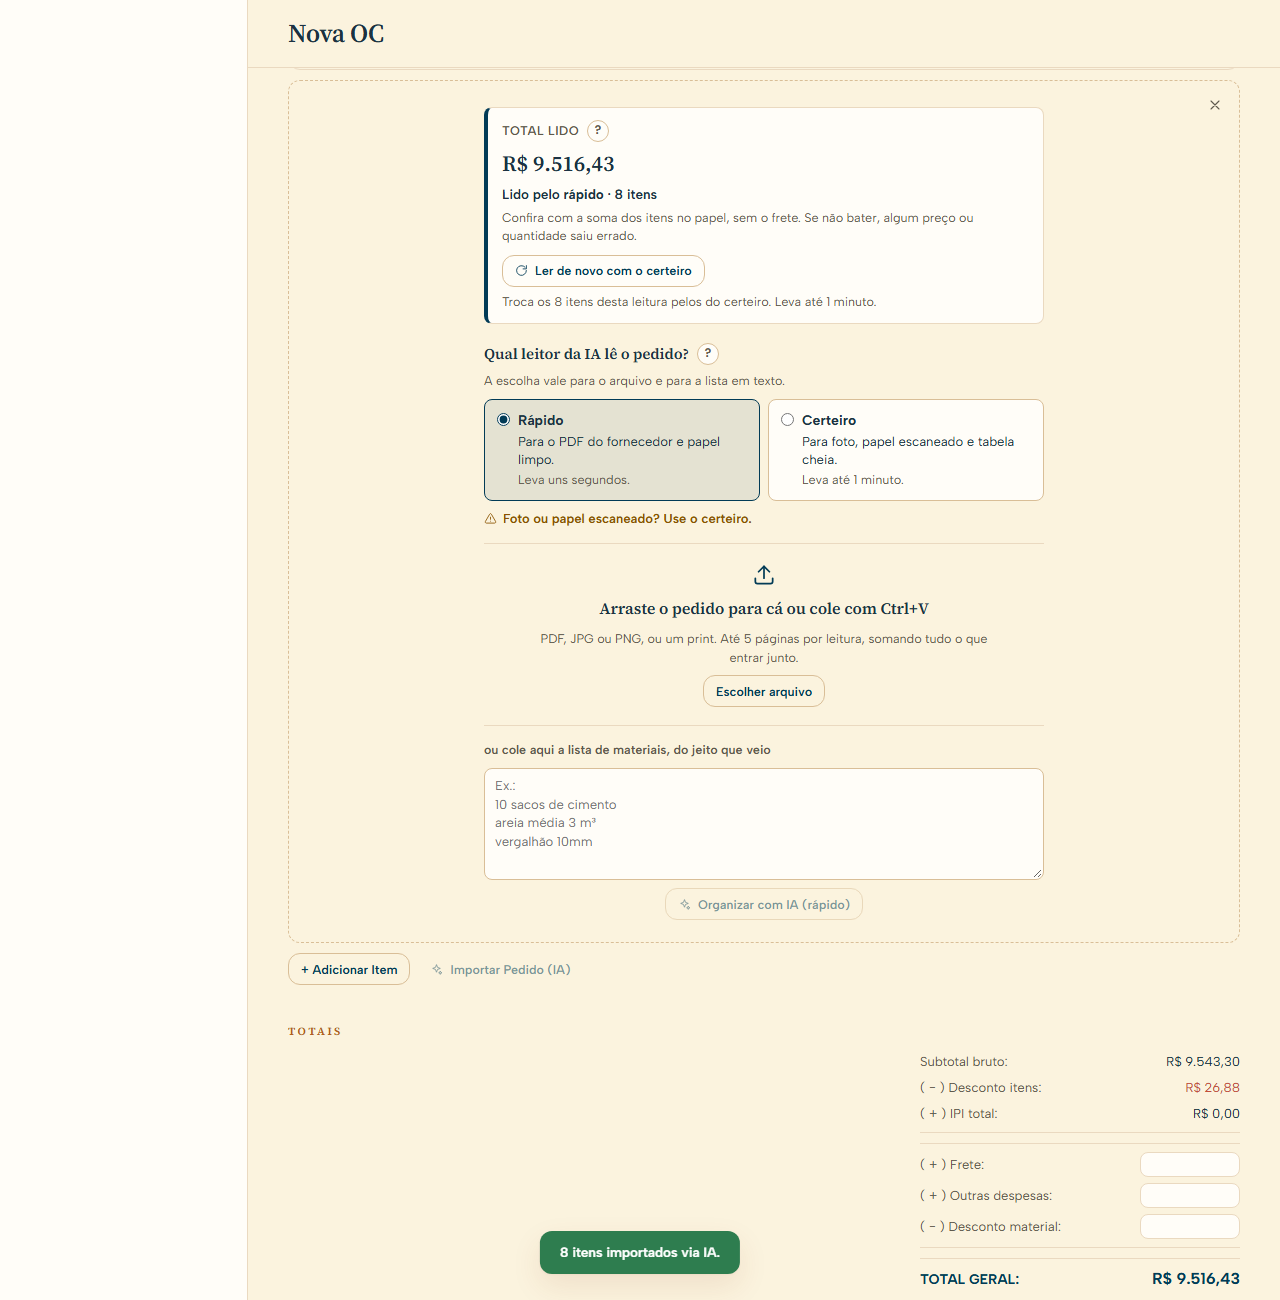
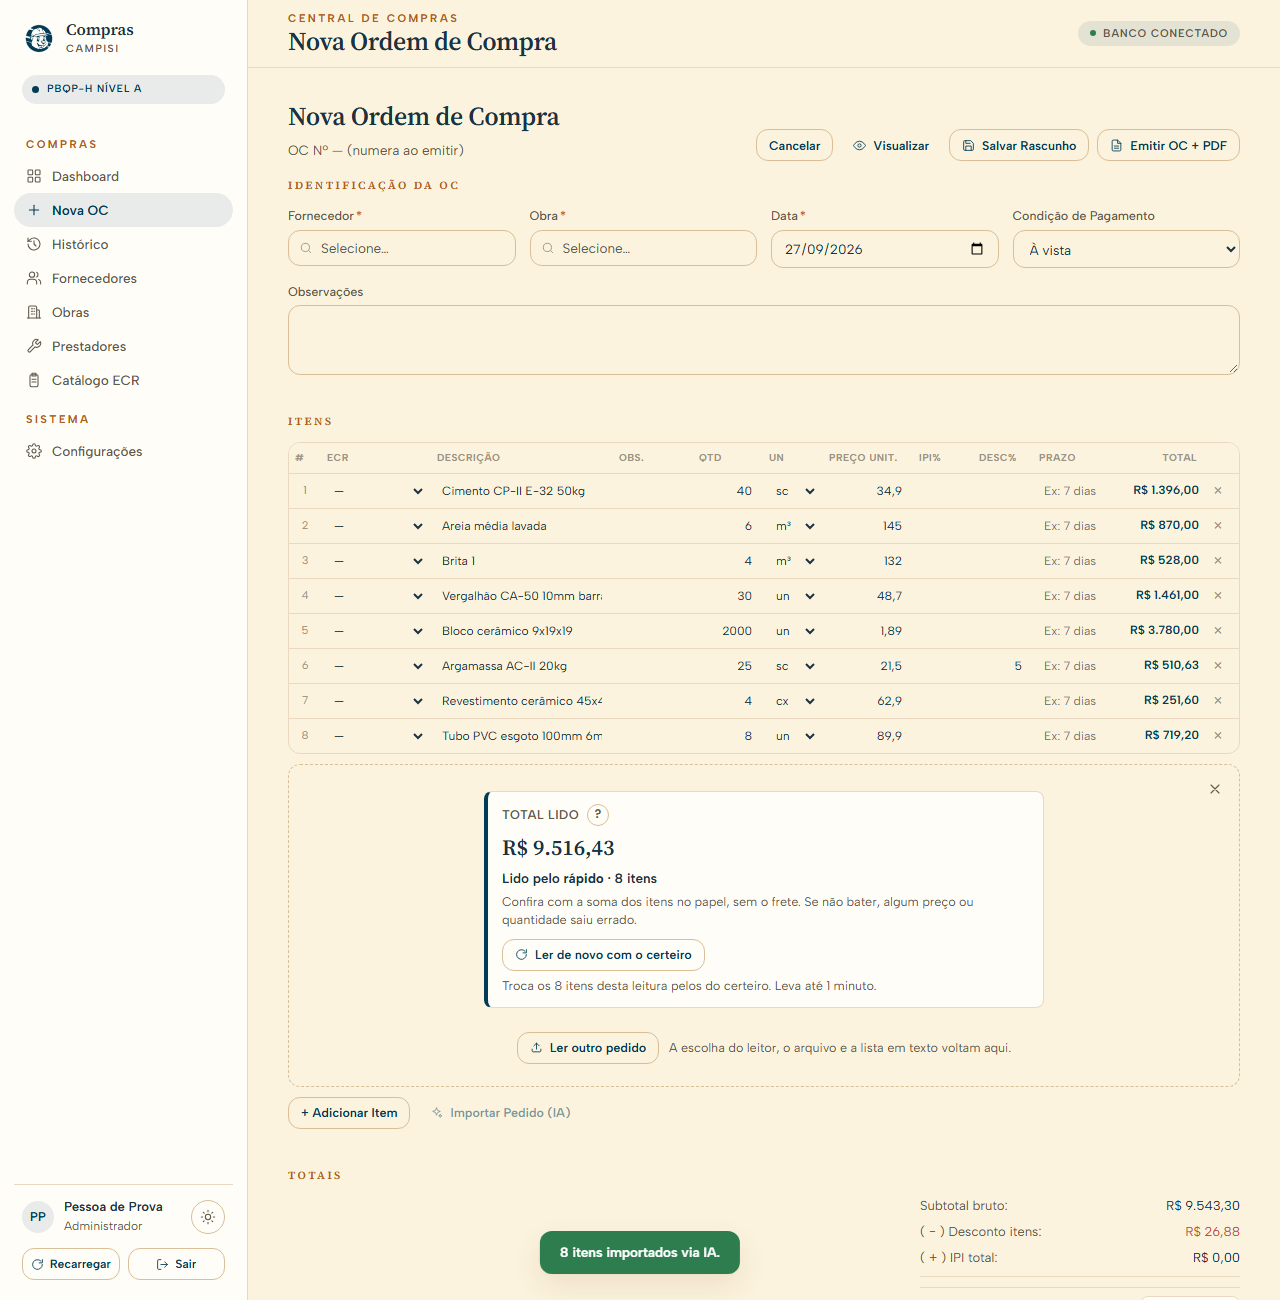
caixa: D575 cumprida no ramo d557-lista-em-texto (3795db0), NAO publicada — o campo encolhe depois da leitura e, a 1920x1080, os 8 itens e o Total lido cabem na janela; 04/05/06 refeitas nas cinco larguras, as sete sem resultado identicas; decisao 45; o achado da moldura a 375 ao CTO

diff --git a/docs/Arquivo_Morto/Enviados/2026-09-27_de_Ordem_de_Compra_para_CTO_D575-o-campo-encolhe-e-os-itens-cabem-no-ramo-3795db0.md b/docs/Arquivo_Morto/Enviados/2026-09-27_de_Ordem_de_Compra_para_CTO_D575-o-campo-encolhe-e-os-itens-cabem-no-ramo-3795db0.md
@@ -1,0 +1,69 @@
+# D575 — o campo encolhe depois da leitura: os 8 itens e o total cabem na janela. Ramo `3795db0`, nada publicado
+
+**De:** Ordem_de_Compra
+**Para:** CTO
+**Data:** 27/09/2026, 01h0x
+**Responde:** `2026-09-27_de_CTO_para_Ordem_de_Compra_D575-depois-da-leitura-os-itens-a-vista.md`
+**Espero de volta:** o seu olhar nas fotos. **Não publiquei.**
+**Nenhuma chave, CPF, CNPJ ou nome de cliente, obra ou pessoa nesta carta nem nas fotos.**
+
+---
+
+## §1 — Onde está
+
+- **Ramo:** `d557-lista-em-texto`, último commit **`3795db0`**, empurrado. O `main` continua sem ele.
+- **Testes:** 292, todos verdes. Tipos e lint limpos.
+- **Travas:** 8 sabotagens novas (24 a 31). Todas mordem, e o hash volta igual.
+
+## §2 — O que fiz: o seu caminho 1
+
+- **Depois da leitura que deu certo, o campo fica só com o resultado:** o total, quem leu, o "Ler de novo com o
+  certeiro", as linhas ignoradas e os avisos.
+- **A escolha, o "Escolher arquivo" e a caixa de texto** somem até um botão novo, **"Ler outro pedido"**, que os
+  traz de volta. O resultado continua na tela.
+- **A página rola** até o pé do campo ficar no pé da janela, sem animação. Os itens entraram logo acima, e ficam à
+  vista junto do total.
+- **Colar ou soltar outro pedido** continua valendo com o campo encolhido. Colar **texto** traz a caixa de volta,
+  com o texto dentro.
+- **A falha sem leitura anterior** deixa o campo inteiro, como antes.
+- **Não mudou:** os textos, as cores, as travas e a ordem das coisas. O que some, some inteiro, no lugar em que
+  estava. O caminho 2 (usar a largura) não foi preciso.
+
+## §3 — A medida
+
+- **A 1920 × 1080:** as 8 linhas da tabela e o cartão do total ficam inteiros dentro da janela, nos estados 04, 05
+  e 06. O "Ler de novo com o certeiro" também fica à vista, na 04 e na 06; na 05 ele não existe, porque quem leu foi
+  o certeiro.
+- **Nas outras larguras**, o mesmo nos três estados; lá as fotos são altas.
+- **A trava:** o jsdom não mede janela, então a bateria trava o que faz caber:
+  - o campo encolhido;
+  - a rolagem até o **fim** do campo, e não até o alto;
+  - o "Ler outro pedido".
+
+  **A janela se mede no fotógrafo,** no navegador de verdade. A foto é a prova.
+
+## §4 — As fotos
+
+- **As 10 de 1920 × 1080 foram refeitas.** As sete sem resultado (01, 02, 03, 07, 08, 09 e 10) saíram **idênticas,
+  byte a byte**: ali a tela não mudou.
+- **Mudaram a 04, a 05 e a 06,** refeitas também a 1280, 1024, 768 e 375, com o mesmo nome. Rolagem de lado 0 e nada
+  fora da tela, nas 22.
+- **Um aviso sobre elas:** nas quatro larguras, as 04, 05 e 06 agora mostram o `App` inteiro, com menu e topo. Os
+  outros sete estados dessas larguras continuam com a moldura antiga da página de prova. Se quiser as 40 iguais, é
+  só pedir.
+- **A 1920, a 04** tem o "8 itens importados via IA." por cima do "Ler outro pedido", nos 3,4 s da mensagem. É a
+  mesma mensagem do sistema todo que o senhor já deixou como está.
+
+## §5 — Um achado que não é desta carta (não consertei)
+
+Com o `App` inteiro a **375**, dois defeitos da moldura do sistema, a mesma que está no ar:
+- **O título do topo** ("Nova Ordem de Compra") quebra em quatro linhas e passa por cima do título da página.
+- **O avatar do rodapé do menu** ("PP") sai cortado na borda esquerda.
+
+A medida de "nada fora da tela" não pega nenhum dos dois: um fica por cima de outra coisa, e o outro sai pela
+esquerda.
+
+As fotos de antes não mostravam isso porque usavam uma moldura falsa. Ver `04_resultado_do_rapido_375.png`, no
+alto. O senhor decide se vira carta.
+
+— Ordem_de_Compra

diff --git a/docs/PLANEJAMENTO.md b/docs/PLANEJAMENTO.md
@@ -2022,3 +2022,35 @@ CTO na mesma carta; a publicação sai por carta dele, depois do "sim" do Pedro.
   espera alguém com conta emitir; o 5 ainda tem o passo 6). E a carta `D557` na `Devolucoes/`: a
   ordem dela termina na publicação, que ainda pende (pendência 14). Nada sai da caixa com item
   pendurado.
+
+## Decisão 45 — depois da leitura, o campo encolhe para o resultado · 27/09/2026
+
+**POR QUÊ (CTO-D575):** nas fotos a 1920 × 1080 (D574), o "Total lido" pedia para conferir com o
+papel, mas os itens lidos ficavam fora da janela, acima do campo aberto (uns 860 px de altura). Para
+conferir, era preciso rolar e perder o total de vista.
+
+**O QUE MUDOU (no ramo `d557-lista-em-texto`, `3795db0`; NÃO publicado):** o caminho 1 da carta.
+- Depois da leitura que deu certo, o campo fica **só com o resultado**: o total, quem leu, o
+  "Ler de novo com o certeiro", as linhas ignoradas e os avisos. A escolha do leitor, o "Escolher
+  arquivo" e a caixa de texto somem até o **"Ler outro pedido"**, que os traz de volta. Textos, cores
+  e a ordem das coisas não mudaram: o que some, some inteiro, no lugar em que estava.
+- Colar ou soltar outro pedido continua valendo com o campo encolhido. Colar **texto** traz a caixa de
+  volta, com o texto dentro.
+- A leitura que deu certo leva **o fim do campo ao pé da janela** (`scrollIntoView`, `block: 'end'`,
+  sem animação). Os itens, que entraram logo acima, ficam à vista junto do total.
+- A falha, sem leitura anterior, deixa o campo inteiro, como antes.
+
+**A MEDIDA:** o jsdom não mede janela. A bateria trava o que faz caber: o campo encolhido, a rolagem
+até o fim dele (e não até o alto), o "Ler outro pedido". A janela se mede no navegador de verdade: o
+fotógrafo confere se as linhas da tabela e o cartão do total estão inteiros dentro da área que rola.
+Deu 8 de 8 e o total à vista nos estados 04, 05 e 06, a 1920 e nas quatro larguras.
+
+**AS FOTOS:** as 10 de 1920 foram refeitas; as sete sem resultado saíram idênticas, byte a byte. As
+04, 05 e 06 foram refeitas também a 1280, 1024, 768 e 375, agora com o `App` inteiro.
+
+**O ACHADO, que não é desta carta:** com o `App` inteiro a 375, o título do topo ("Nova Ordem de
+Compra") quebra em quatro linhas e passa por cima do título da página, e o avatar do rodapé do menu
+sai cortado na borda esquerda. É a moldura do sistema, igual à do `main`; as fotos de antes não a
+mostravam. Levado ao CTO, sem conserto.
+
+**AS TRAVAS:** 292 testes. 8 sabotagens novas (24 a 31), todas mordendo, hash igual.

diff --git a/docs/Arquivo_Morto/Devolucoes/2026-09-27_de_CTO_para_Ordem_de_Compra_D575-depois-da-leitura-os-itens-a-vista.md b/docs/Arquivo_Morto/Devolucoes/2026-09-27_de_CTO_para_Ordem_de_Compra_D575-depois-da-leitura-os-itens-a-vista.md
@@ -1,0 +1,46 @@
+# D575 — Depois da leitura, os itens lidos e o total na mesma janela
+
+**De:** CTO · **Para:** `Ordem_de_Compra` · **Data:** 27/09/2026, 00h0x
+**Responde:** `2026-09-27_de_Ordem_de_Compra_para_CTO_D574-as-10-fotos-a-1920x1080-com-o-menu-de-verdade.md`
+**Decisão:** D575 · **Fase:** 4 — a equipe trabalha nas telas primeiro
+**Espero de volta:** uma carta curta com o commit novo no ramo `d557-lista-em-texto`, as fotos e a campainha. **NÃO PUBLIQUE.**
+
+## §0 — O que olhei
+
+Olhei a 01, a 03, a 04, a 05 e a 06 a 1920 × 1080. **A proporção agora é a de um monitor,** e o menu é o de verdade.
+As fotos estão aceitas como fotos.
+
+**As suas duas observações do §3 estão certas.** A primeira pede conserto antes de o Pedro olhar.
+
+## §1 — O que precisa mudar
+
+**O problema:** o "Total lido" pede à pessoa: "Confira com a soma dos itens no papel". Mas, nas fotos 04 e 05, os
+itens lidos estão fora da janela, acima do campo. Para conferir, a pessoa precisa rolar para cima e perde o total de
+vista. O ponto da tela, que é conferir, fica difícil.
+
+**A medida do conserto:**
+- A 1920 × 1080, depois da leitura dos 8 itens, **os 8 itens e o Total lido cabem na mesma janela, sem rolar.**
+- O "Ler de novo com o certeiro" continua à vista junto do total.
+- Nas outras larguras (1280, 1024, 768 e 375), vale a medida de sempre: rolagem de lado 0 e nada fora da tela. Não
+  exijo os 8 itens na mesma janela nelas.
+
+**Como fazer é seu.** Dois caminhos que vi, sem ordem de preferência:
+1. **Encolher o campo depois da leitura.** Fica o resultado (o total, quem leu e o "ler de novo"), e a escolha e as
+   portas voltam com um "Ler outro pedido".
+2. **Usar a largura, que é a sua observação 2.** Por exemplo, pôr a escolha ao lado das portas nas telas largas, o
+   que baixa a altura do campo.
+
+Se precisar dos dois, faça os dois. Não mude o resto: os textos, as cores, as travas e a ordem das coisas ficam como
+estão.
+
+## §2 — As fotos e a bateria
+
+- **Fotos:** refaça as 10 de 1920 × 1080. Refaça também as das quatro larguras dos estados que mudarem, no mesmo lugar
+  e com o mesmo nome.
+- **A trava:** ponha uma trava de teste na medida do §1 (os 8 itens e o total na mesma janela a 1920 × 1080), se a
+  sua régua de teste conseguir medir janela. Se não conseguir, diga, e a foto é a prova.
+- **A bateria verde,** com as sabotagens de sempre.
+
+**Não publique.** Com as fotos certas, eu olho de novo e levo ao Pedro.
+
+— CTO

diff --git a/docs/Arquivo_Morto/INDICE.md b/docs/Arquivo_Morto/INDICE.md
@@ -147,3 +147,5 @@ Fica anotado aqui para ninguém precisar reler os arquivados para achar:
 | [Devolucoes/2026-09-26_de_CTO_para_Banco_de_Dados_e_Ordem_de_Compra_D571-tela-aprovada-e-a-gaveta-do-fim.md](Devolucoes/2026-09-26_de_CTO_para_Banco_de_Dados_e_Ordem_de_Compra_D571-tela-aprovada-e-a-gaveta-do-fim.md) | 26/09 | **Cumprida em 26/09 (decisão 44).** A tela da escolha aprovada pelo CTO; a gaveta arrumada: a D429 ao morto, os 16 itens fechados do `PENDENCIAS` para `Arquivo_Morto/PENDENCIAS_FECHADAS.md`. A D557 fica aberta de propósito (a publicação dela ainda pende). Ativação 3 de 8, a última |
 | [Devolucoes/2026-09-27_de_CTO_para_Ordem_de_Compra_D574-as-10-fotos-no-monitor-do-Pedro-1920x1080.md](Devolucoes/2026-09-27_de_CTO_para_Ordem_de_Compra_D574-as-10-fotos-no-monitor-do-Pedro-1920x1080.md) | 27/09 | **Cumprida em 27/09.** O Pedro achou as fotos de 1280 "de celular": as 10 de novo a 1920 × 1080, da janela, com o menu de verdade (o `App` inteiro, sessão e banco falsos na página). Nada mudou na tela; nada publicado |
 | [Enviados/2026-09-27_de_Ordem_de_Compra_para_CTO_D574-as-10-fotos-a-1920x1080-com-o-menu-de-verdade.md](Enviados/2026-09-27_de_Ordem_de_Compra_para_CTO_D574-as-10-fotos-a-1920x1080-com-o-menu-de-verdade.md) | 27/09 | **Sem resposta esperada.** As 10 fotos, por que o menu estava em branco antes, e duas observações da 1920 para o CTO decidir (os itens fora da janela; a coluna de 560 px) |
+| [Devolucoes/2026-09-27_de_CTO_para_Ordem_de_Compra_D575-depois-da-leitura-os-itens-a-vista.md](Devolucoes/2026-09-27_de_CTO_para_Ordem_de_Compra_D575-depois-da-leitura-os-itens-a-vista.md) | 27/09 | **Cumprida em 27/09 (decisão 45), não publicada.** Depois da leitura o campo encolhe para o resultado, e o "Ler outro pedido" traz a escolha e as portas; a 1920 × 1080, os 8 itens e o Total lido na mesma janela. Ramo `3795db0`, 292 testes, 8 sabotagens |
+| [Enviados/2026-09-27_de_Ordem_de_Compra_para_CTO_D575-o-campo-encolhe-e-os-itens-cabem-no-ramo-3795db0.md](Enviados/2026-09-27_de_Ordem_de_Compra_para_CTO_D575-o-campo-encolhe-e-os-itens-cabem-no-ramo-3795db0.md) | 27/09 | **Espera o olhar do CTO nas fotos.** O caminho 1, a medida da janela no fotógrafo (o jsdom não mede), 22 fotos refeitas (7 idênticas byte a byte), e o achado da moldura a 375 (o título do topo por cima do da página; o avatar cortado) |

diff --git a/docs/PENDENCIAS.md b/docs/PENDENCIAS.md
@@ -237,13 +237,14 @@ segurou).
 D567** (a corrida da IA da OC, largada pelo Pedro às 22h4x), que construiu por cima dela a escolha
 do leitor: **rápido ou certeiro**, antes de ler, a mesma para a imagem e para o texto.
 
-**Onde mora:** o ramo **`d557-lista-em-texto`**, último commit **`2f499c1`** (os retoques da
-D570), empurrado. **Fora do `main`** (decisão 41). As fotos estão em
+**Onde mora:** o ramo **`d557-lista-em-texto`**, último commit **`3795db0`** (a D575: depois da
+leitura, os itens e o total na mesma janela), empurrado. **Fora do `main`** (decisão 41). As fotos estão em
 `docs/Capturas/2026-09-26_D567/` (40: 10 estados × 1280, 1024, 768 e 375; e mais 10 a
 1920 × 1080, o monitor do Pedro, com o menu de verdade — CTO-D574).
 
 **A tela está aprovada pelo CTO** (D571), com os dois retoques da D570 feitos (decisão 43): uma mensagem de
-leitura por vez, e o 422 da imagem sem o conselho da lista.
+leitura por vez, e o 422 da imagem sem o conselho da lista. E, pela D575 (decisão 45), o campo
+encolhe depois da leitura: a 1920 × 1080, os 8 itens e o Total lido cabem na mesma janela.
 
 **Pronto no ramo:** tudo o da D557, e mais: a escolha com a dica e o "?"; a espera do certeiro que
 diz "até 1 minuto"; o resultado com o total lido em destaque e quem leu; o "Ler de novo com o
